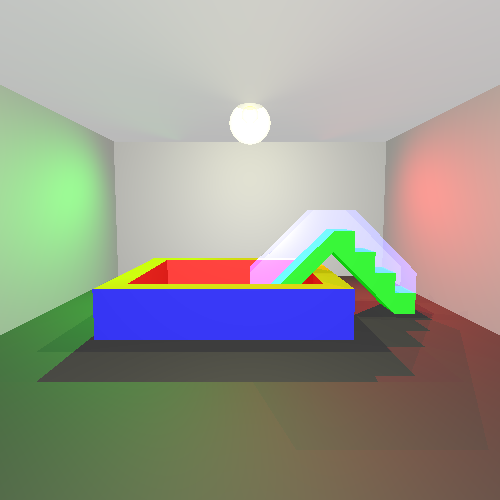
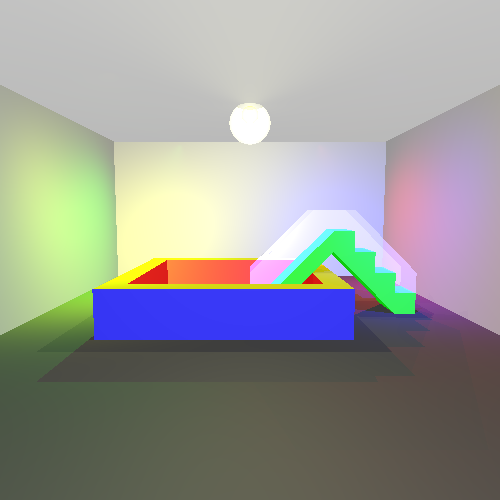
lights

diff --git a/unitTests/renderer/FinalTest.java b/unitTests/renderer/FinalTest.java
@@ -244,8 +244,8 @@ public class FinalTest {
     @Test
     public void BallsPool() {
         Color wallE = new Color(GRAY);
-        Color red = new Color(200, 10, 10);
-        Color blue = new Color(10, 10, 200);
+        Color yellowLight = new Color(250, 250, 10);
+        Color blue = new Color(10, 10, 300);
         Color yellow = new Color(180, 180, 0);
 
         Material wallM = new Material().setKd(0.5).setKs(0.5).setShininess(5);
@@ -257,7 +257,7 @@ public class FinalTest {
         Scene scene = new Scene("pool");
         Camera camera = new Camera(new Point(0, -200, 50), new Vector(0, 10, -1), new Vector(0, 1, 10)) //
                 .setVPSize(250, 250).setVPDistance(200);//.multiThreadingOn();
-        Camera cameraUp = new Camera(new Point(0, -120, 90), new Vector(0, 10, -9), new Vector(0, 9, 10)) //
+        Camera cameraUp = new Camera(new Point(0, -100, 90), new Vector(0, 10, -8), new Vector(0, 8, 10)) //
                 .setVPSize(300, 300).setVPDistance(170);//.multiThreadingOn();
         scene.geometries.add(new Plane(new Point(0, 100, 0), new Vector(0, -1, 0)).setEmission(wallE).setMaterial(wallM));
         scene.geometries.add(new Plane(new Point(100, 0, 0), new Vector(-1, 0, 0)).setEmission(wallE).setMaterial(wallM));
@@ -278,18 +278,20 @@ public class FinalTest {
         scene.geometries.add(new Sphere(lightPlace.subtract(new Vector(0, 0, 4)), 10).setEmission(new Color(50, 50, 35)).setMaterial(new Material().setKd(0.5).setKs(0.5).setShininess(50).setKt(0.9)));
 
 
-        scene.lights.add(new SpotLight(new Color(RED), new Point(50, 99, 99), new Vector(50, -99, -100)).setNarrowBeam(5).setKl(0.0001).setKq(0.00001));
-        scene.lights.add(new SpotLight(new Color(GREEN), new Point(-50, 99, 99), new Vector(-50, -99, -100)).setNarrowBeam(5).setKl(0.0001).setKq(0.00001));
+        scene.lights.add(new SpotLight(new Color(RED), new Point(50, 99, 99), new Vector(50, -50, -100)).setNarrowBeam(5).setKl(0.0001).setKq(0.00001));
+        scene.lights.add(new SpotLight(new Color(GREEN), new Point(-50, 99, 99), new Vector(-50, -50, -100)).setNarrowBeam(5).setKl(0.0001).setKq(0.00001));
+        scene.lights.add(new SpotLight(blue, new Point(50, -50, 99), new Vector(50, 99, -100)).setNarrowBeam(5).setKl(0.0001).setKq(0.00001));
+        scene.lights.add(new SpotLight(yellowLight, new Point(-50, -50, 99), new Vector(-50, 99, -100)).setNarrowBeam(5).setKl(0.0001).setKq(0.00001));
         scene.lights.add(new PointLight(new Color(40, 40, 20), lightPlace));
         scene.lights.add(new PointLight(new Color(70, 70, 70), new Point(0, -200, 50)));
         //scene.softShadowOn(7, 3);
-        camera.setImageWriter(new ImageWriter("ballsPool", 500, 500)) //
-                .setRayTracer(new RayTracerBasic(scene)) //
-                .renderImage(); //
+        camera.setImageWriter(new ImageWriter("ballsPool", 500, 500))
+                .setRayTracer(new RayTracerBasic(scene))
+                .renderImage();
         camera.writeToImage();
-        cameraUp.setImageWriter(new ImageWriter("ballsPoolUp", 400, 400)) //
-                .setRayTracer(new RayTracerBasic(scene)) //
-                .renderImage(); //
+        cameraUp.setImageWriter(new ImageWriter("ballsPoolUp", 400, 400))
+                .setRayTracer(new RayTracerBasic(scene))
+                .renderImage();
         cameraUp.writeToImage();
     }
 
